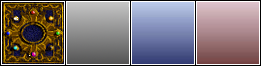
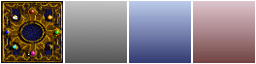
Updated Sprite Sheets (Rendering)

Changed region(s): [[0.0, 0.0, 1.0, 1.0], [0.1562, 0.5938, 0.1875, 0.625], [0.1562, 0.5312, 0.1875, 0.5625]]

diff --git a/card_view.cpp b/card_view.cpp
@@ -25,9 +25,9 @@ CardView::CardView ( void )
   this->card_background = new Sprite ( CARD_WIDTH, CARD_HEIGHT );
   this->card_element = new Sprite ( ELEMENT_WIDTH, ELEMENT_HEIGHT );
 
-  this->card_face->SetSheetDimensions ( 2082, 262, 1, 1 );
-  this->card_background->SetSheetDimensions ( 261, 66, 1, 1 );
-  this->card_element->SetSheetDimensions ( 86, 35, 1, 1 );
+  this->card_face->SetSheetDimensions ( 2082, 262, 0, 0 );
+  this->card_background->SetSheetDimensions ( 261, 66, 0, 0 );
+  this->card_element->SetSheetDimensions ( 86, 35, 0, 0 );
 
   this->card_face->LoadImage ( CARD_FACES );
   this->card_background->LoadImage ( CARD_BACKGROUNDS );

diff --git a/sprite.cpp b/sprite.cpp
@@ -276,8 +276,8 @@ bool Sprite::Draw ( Gfx &engine )
     //float rows = floor ( this->sheet.width / this->sheet.sprite_width );
     float cols = floor ( this->sheet.height / this->sheet.sprite_height );
 
-    offsets.x = ( this->sheet.id * this->sheet.sprite_width ) + ( this->sheet.spacing * this->sheet.id + 1 );
-    offsets.y = this->sheet.padding;
+    offsets.x = ( this->sheet.id * this->sheet.sprite_width );
+    offsets.y = 0;
 
     offsets.w = this->sheet.sprite_width;
     offsets.h = this->sheet.sprite_height;
